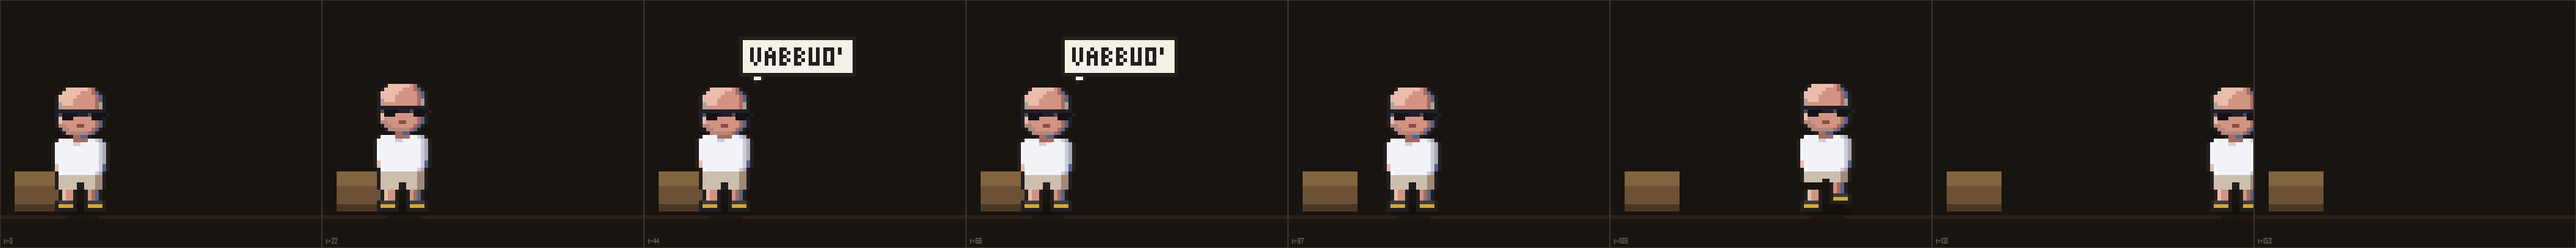
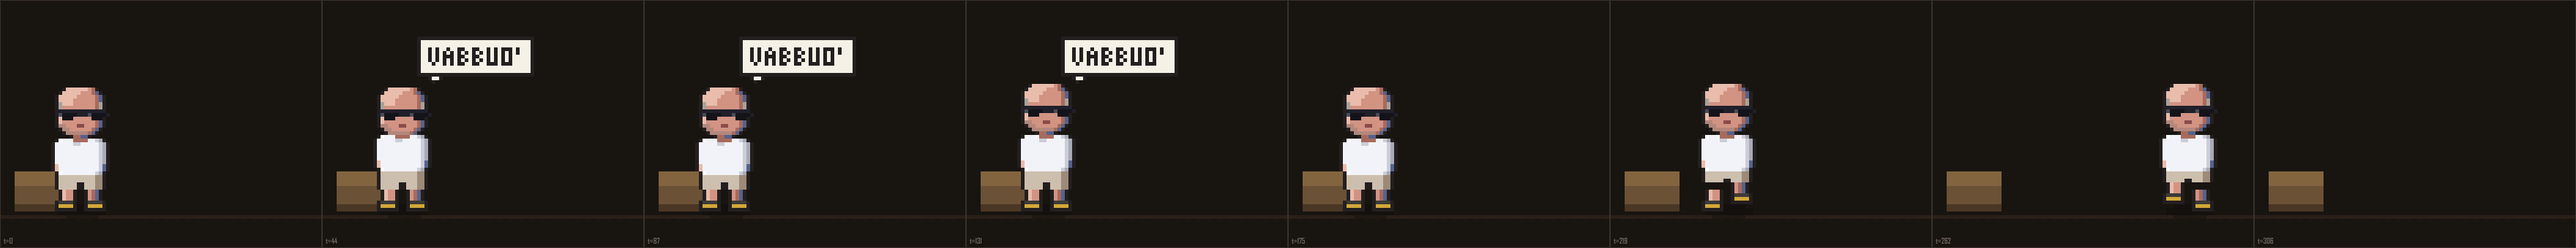
Orario, e niente si puo' piu' saltare per sbaglio
ORARIO 19:30. Sulla mappa sta di fianco alla data, staccato di sei pixel
perche' attaccati si leggevano come un numero solo. E nella frase finale
e nel messaggio di conferma.

NIENTE SI SALTA. C'erano tre punti in cui un tocco mandava avanti
un'animazione invece di aspettarla, e ognuno costava qualcosa di preciso:

- nel salotto bruciava le nove pressioni del volume, sette secondi di
  scena, cioe' la gag intera del 70;
- nelle riparazioni mandava il gesto alla fine, e ci si perdeva il tubo
  che si aggiusta, la nuvola, la persona che esce da operaio: le uniche
  cose che quella scena ha da dare;
- sulla mappa saltava comparsa e scansione, cioe' tutto quello che rende
  credibile l'ingrandimento.

Ora, finche' un gesto e' in corso, il tocco non fa niente. Chi ha davvero
fretta ha il pulsante in alto a destra: quella e' una scelta, un dito
appoggiato per sbaglio no.

Due protezioni in piu'. Due tocchi a meno di un quarto di secono contano
per uno: sotto quella soglia non e' una seconda decisione, e' una mano
che trema, e bastava per saltare una frase senza averla letta. E durante
una dissolvenza il tocco non fa niente, perche' li' la scena vecchia e'
finita e la nuova non e' cominciata.

IL CONGEDO. Da 2,5 secondi a 5. Prima sentiva, rispondeva e se ne andava
di filato, col VABBUO' appeso appena sette decimi - troppo poco perfino
per leggerlo, figurarsi per farlo pesare. Ora ci pensa mezzo secondo, la
[…]

diff --git a/strumenti/nienteSalti.js b/strumenti/nienteSalti.js
@@ -1,0 +1,131 @@
+/* Prova che nessuna animazione si possa saltare toccando lo schermo.
+
+   Il metodo e' il piu' brutale possibile: si tocca a OGNI fotogramma, che
+   e' peggio di qualunque dito storto, e si controlla che ogni gesto
+   arrivi comunque in fondo e ogni frase compaia comunque.
+
+   Se un giorno qualcuno rimettesse una scorciatoia - "cosi' chi ha fretta
+   avanza" - questa prova diventa rossa.
+
+     node strumenti/nienteSalti.js
+*/
+const F = require("../facile.js");
+const M = require("../mappa.js");
+
+let male = 0;
+function esito(nome, ok, dettaglio){
+  if (!ok) male++;
+  console.log("  " + nome.padEnd(50) + (ok ? "ok" : "SALTATO") +
+    (dettaglio ? "   " + dettaglio : ""));
+}
+
+/* ---------------- la scena delle riparazioni ---------------- */
+{
+  const FRASI = 8;
+  const fot = n => Math.ceil((30 + n * 4) * 26 / 16.67);   // testo verosimile
+
+  let passo = 0, t = 0, iFrase = -1, scriv = 0, fine = false;
+  const viste = new Set();
+  const durate = new Map();
+
+  const mostra = n => {
+    if (n === undefined || n <= iFrase) return;
+    iFrase = n; viste.add(n); scriv = fot(n);
+  };
+  mostra(0);
+
+  for (let f = 0; f < 20000 && !fine; f++){
+    const p = F.PASSI[passo];
+
+    const attende = p.frase !== undefined && !p.ritardoFrase && scriv > 0;
+    if (!attende) t++;
+    if (scriv > 0) scriv--;
+    if (p.ritardoFrase && t >= p.ritardoFrase) mostra(p.frase);
+
+    // si tocca a ogni singolo fotogramma
+    if (scriv > 0){ scriv = 0; }
+    else {
+      const s = F.stato(passo, t);
+      if (!s.finito){ /* il tocco non deve fare niente */ }
+      else if (passo >= F.PASSI.length - 1) fine = true;
+      else {
+        durate.set(passo, t);
+        passo++; t = 0;
+        const q = F.PASSI[passo];
+        if (!q.ritardoFrase) mostra(q.frase);
+      }
+    }
+  }
+  durate.set(F.PASSI.length - 1, t);
+
+  console.log("terza scena, toccando a ogni fotogramma:");
+  esito("tutte le otto frasi compaiono", viste.size === FRASI,
+        viste.size + " su " + FRASI);
+
+  let tutte = true, corto = "";
+  for (const [i, avuta] of durate){
+    const attesa = F.PASSI[i].durata || 0;
+    if (avuta < attesa){ tutte = false; corto = "passo " + i + ": " + avuta + " su " + attesa; }
+  }
+  esito("ogni gesto arriva in fondo", tutte, corto);
+
+  const tot = [...durate.values()].reduce((a, b) => a + b, 0);
+  console.log("    la scena dura comunque " + (tot / 60).toFixed(1) + " s");
+}
+
+/* ---------------- la mappa ---------------- */
+{
+  const limite = M.FASI.comparsa + M.FASI.scansione + M.FASI.agganciato;
+  let liv = 0, t = 0, libera = false, fine = false;
+  const durate = new Map();
+
+  for (let f = 0; f < 20000 && !fine; f++){
+    const ultimo = liv >= M.LIVELLI.length - 1;
+    const attesa = !ultimo && t >= limite && !libera;
+    if (!attesa) t++;
+    if (!ultimo && t >= M.DURATA_LIVELLO){
+      durate.set(liv, t); liv++; t = 0; libera = false;
+      if (liv >= M.LIVELLI.length - 1) fine = true;
+    }
+    // tocco a ogni fotogramma
+    if (t < limite){ /* non deve fare niente */ }
+    else libera = true;
+  }
+
+  console.log("\nmappa, toccando a ogni fotogramma:");
+  let tutti = true, corto = "";
+  for (const [i, avuta] of durate)
+    if (avuta < M.DURATA_LIVELLO){ tutti = false; corto = "livello " + i; }
+  esito("ogni livello si acquisisce per intero", tutti, corto);
+  esito("si arriva fino a " + M.LIVELLI[M.LIVELLI.length - 1].sigla,
+        liv === M.LIVELLI.length - 1);
+}
+
+/* ---------------- il salotto ---------------- */
+{
+  /* Qui non c'e' un passo per passo da simulare: la prova e' che il codice
+     non contenga piu' la riga che saltava la sequenza del volume. */
+  const fs = require("fs");
+  const pagina = fs.readFileSync("index.html", "utf8");
+  const dentroTocca = /function tocca\(\)\{([\s\S]*?)\n\}/.exec(pagina);
+  const salta = dentroTocca && /tSalotto = SC\.fineVolume/.test(dentroTocca[1]);
+  console.log("\nsalotto:");
+  esito("il tocco non salta le nove pressioni del volume", !salta);
+}
+
+/* ---------------- il freno ai tocchi doppi ---------------- */
+{
+  const fs = require("fs");
+  const pagina = fs.readFileSync("index.html", "utf8");
+  console.log("\nprotezioni generali:");
+  esito("due tocchi ravvicinati contano per uno",
+        /ultimoTocco < 250/.test(pagina));
+  esito("durante una dissolvenza il tocco non fa niente",
+        /if \(veloVerso\) return;/.test(pagina));
+}
+
+console.log(male === 0
+  ? "\nniente si puo' saltare per sbaglio"
+  : "\n" + male + " punti da cui si perde qualcosa");
+process.exit(male === 0 ? 0 : 1);
+

diff --git a/index.html b/index.html
@@ -234,7 +234,7 @@ const ATTI = [
     'Ecco il luogo dove avverr\u00e0 la festa.',
     // INDIRIZZO DA CONFERMARE: qui va la via esatta del Cavallino Rosso
     '<span class="nome">Cavallino Rosso</span><br>San Giovanni Rotondo (FG)<br>' +
-      '<span class="nome">sabato 7 novembre 2026</span>'
+      '<span class="nome">sabato 7 novembre 2026, ore 19:30</span>'
   ],
   [
     'Avete data e luogo.',
@@ -867,7 +867,8 @@ const NUMERO = ['39', '349', '797', '7607'].join('');
    proprio nome subito dopo. Senza, arriverebbero venti messaggi identici
    e nessuno saprebbe di chi sono. */
 const MESSAGGIO = 'Ci sar\u00f2 alla festa di Gerardo! ' +
-  'Sabato 7 novembre 2026, Cavallino Rosso, San Giovanni Rotondo.\n\nSono: ';
+  'Sabato 7 novembre 2026 alle 19:30, Cavallino Rosso, San Giovanni Rotondo.' +
+  '\n\nSono: ';
 
 elConferma.href = 'https://wa.me/' + NUMERO +
   '?text=' + encodeURIComponent(MESSAGGIO);
@@ -929,7 +930,22 @@ function finisci(html){
   elFreccia.classList.add('viva');
 }
 
+/* Due tocchi troppo ravvicinati sono un dito che trema, non due decisioni.
+   Un quarto di secondo di sordita' e' sotto la soglia in cui si avverte un
+   ritardo, e sopra quella in cui un tocco accidentale si sdoppia: senza,
+   bastava un contatto malfermo per saltare una frase intera senza averla
+   letta. */
+let ultimoTocco = 0;
+
 function tocca(){
+  const adesso = Date.now();
+  if (adesso - ultimoTocco < 250) return;
+  ultimoTocco = adesso;
+
+  // durante una dissolvenza non si tocca niente: la scena vecchia e'
+  // finita e quella nuova non e' cominciata
+  if (veloVerso) return;
+
   if (stato === 'facile'){ avanzaFacile(); return; }
   if (stato === 'mappa'){ avanzaMappa(); return; }
   // nella scelta si decide con i pulsanti: il tocco a vuoto non deve
@@ -945,7 +961,11 @@ function tocca(){
   // Nella seconda scena, se il racconto non e' ancora partito, il tocco
   // salta alla fine della sequenza del volume. Uno schermo dove toccare
   // non produce nulla sembra rotto, e l'utente smette di provare.
-  if (stato === 'racconto2' && iFrase < 0){ tSalotto = SC.fineVolume - 1; return; }
+  /* La sequenza del volume non si salta col tocco. Prima bastava sfiorare
+     lo schermo per bruciare nove pressioni e sette secondi di scena. Chi
+     ha davvero fretta ha il pulsante in alto a destra, che e' una scelta;
+     un dito appoggiato per sbaglio non lo e'. */
+  if (stato === 'racconto2' && iFrase < 0) return;
   if (scrivendo) finisci(FRASI[iFrase]);       // primo tocco: mostra tutto
   else if (iFrase < FRASI.length) prossimaFrase();
 }
@@ -1069,7 +1089,11 @@ function avanzaFacile(){
   const F = window.FACILE;
   if (scrivendo){ finisci(FRASI[iFrase]); return; }
   const s = F.stato(passoFacile, tPasso);
-  if (!s.finito){ tPasso = F.PASSI[passoFacile].durata; return; }
+  /* Se il gesto e' ancora in corso il tocco non fa NIENTE: prima lo
+     mandava alla fine, e chi sfiorava lo schermo si perdeva la battuta -
+     il tubo che si aggiusta, la nuvola, la persona che esce da operaio.
+     Sono le uniche cose che questa scena ha da dare. */
+  if (!s.finito) return;
 
   if (passoFacile >= F.PASSI.length - 1){
     elAvanti.classList.add('viva');
@@ -1193,10 +1217,12 @@ function avanzaMappa(){
     return;
   }
 
-  // se l'acquisizione e' ancora in corso, il tocco la porta a termine;
-  // se e' finita, il tocco sblocca l'ingrandimento
-  if (tMappa < fineAggancio()) tMappa = fineAggancio();
-  else strettaLibera = true;
+  /* Finche' la macchina sta acquisendo, il tocco non fa niente: prima
+     saltava la comparsa e la scansione, cioe' tutto quello che rende
+     credibile l'ingrandimento. Il tocco serve solo a decidere QUANDO
+     stringere, e quella e' l'unica cosa che deve decidere chi guarda. */
+  if (tMappa < fineAggancio()) return;
+  strettaLibera = true;
 }
 
 function disegnaMappa(){

diff --git a/facile.js b/facile.js
@@ -242,7 +242,7 @@ const PASSI = [
      finche' e' inquadrato, l'invito resta una cosa che riguarda lui, e le
      informazioni pratiche non sono per lui. Se ne va di sua volonta', con
      l'unica parola che avrebbe detto davvero. */
-  { cosa:'congedo', modo:'esce', durata:150, frase:7 }
+  { cosa:'congedo', modo:'esce', durata:300, frase:7 }
 ];
 
 const X_POSTO = 52;          // dove si fermano gli oggetti
@@ -262,7 +262,16 @@ function stato(passo, t){
      se ne va camminando verso destra. Il "vabbuo'" arriva dopo una pausa,
      perche' e' una resa, non una risposta pronta. */
   if (p.cosa === 'congedo'){
-    const parlaDa = 26, parlaA = 70, partenza = 76;
+    /* Un congedo ha bisogno di tempi lunghi. Prima erano stretti: sentiva,
+       rispondeva e se ne andava in due secondi e mezzo, e il VABBUO'
+       restava appeso appena tre quarti di secondo - troppo poco perfino
+       per leggerlo, figurarsi per farlo pesare.
+       Ora: ci pensa mezzo secondo prima di rispondere, la parola resta
+       quasi due secondi, poi sta ancora fermo un secondo e mezzo prima di
+       muoversi. E' quella pausa a dire che non gli va.
+       Anche il passo e' piu' lento di prima: uno che se ne va controvoglia
+       non se ne va di corsa. */
+    const parlaDa = 34, parlaA = 148, partenza = 208;
     const camm = t > partenza
       ? Math.min(1, (t - partenza) / (p.durata - partenza)) : 0;
     return Object.assign({}, vuoto, {
@@ -324,5 +333,6 @@ if (typeof module !== 'undefined' && module.exports) module.exports = API;
 else radice.FACILE = API;
 
 })(typeof self !== 'undefined' ? self : this);
+
 
 

diff --git a/mappa.js b/mappa.js
@@ -89,6 +89,7 @@ const BERSAGLIO = [15.7269, 41.7086];
 
 // il quando e il dove, in un posto solo: se cambiano, cambiano qui
 const DATA = '07/11/2026';
+const ORA = '19:30';
 const LUOGO = 'CAVALLINO ROSSO';
 
 /* --------------------------------------------------------------------------
@@ -508,6 +509,9 @@ function disegna(P, s, t){
        per cui esiste tutto il resto. La data ferma e il luogo lampeggiante:
        se lampeggiassero entrambi lo sguardo non saprebbe dove posarsi. */
     scritta(P, 4, ALT - 22, DATA, COL.mirino);
+    // l'ora di fianco alla data, staccata di sei pixel: attaccate si
+    // leggevano come un numero solo
+    scritta(P, 4 + largScritta(DATA) + 6, ALT - 22, ORA, COL.mirino);
     if (Math.floor(t / 16) % 2 === 0)
       scritta(P, 4, ALT - 15, LUOGO, COL.bersaglio);
   } else if (s.fase === 'agganciato'){
@@ -532,7 +536,7 @@ function disegna(P, s, t){
 }
 
 const API = {
-  LARG, ALT, COL, LIVELLI, BERSAGLIO, DATA, LUOGO, FASI, DURATA_LIVELLO,
+  LARG, ALT, COL, LIVELLI, BERSAGLIO, DATA, ORA, LUOGO, FASI, DURATA_LIVELLO,
   proiezione, riempi, contorno, segmento, strade, griglia, angoli,
   mirino, scansione, tacche, inquadratura, stato, disegna,
   scritta, largScritta, coordinate, barra,
@@ -542,3 +546,4 @@ if (typeof module !== 'undefined' && module.exports) module.exports = API;
 else radice.MAPPA = API;
 
 })(typeof self !== 'undefined' ? self : this);
+
